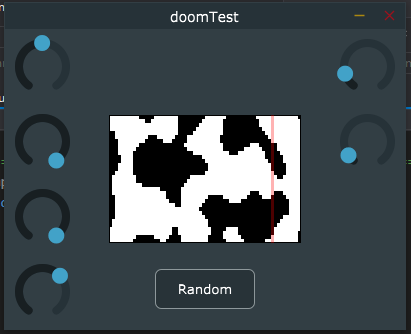
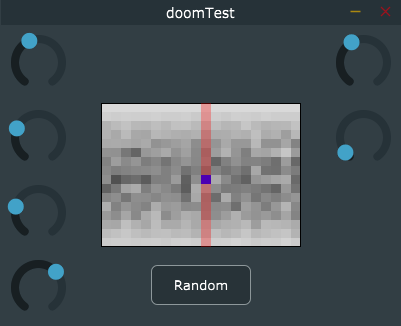
updated

diff --git a/Source/PluginProcessor.cpp b/Source/PluginProcessor.cpp
@@ -24,7 +24,7 @@ DoomTestAudioProcessor::DoomTestAudioProcessor()
                        )
 #endif
 {
-    pixels = new dsp::Matrix<bool>(16, 8);
+    pixels = new dsp::Matrix <float> (16, 8);
 
     perlinMatrix();
 
@@ -36,51 +36,21 @@ DoomTestAudioProcessor::~DoomTestAudioProcessor()
 
 }
 
-
-void DoomTestAudioProcessor::test_smallMatrix() {
-    (*pixels)(3, 3) = true;
-    (*pixels)(3, 4) = true;
-    (*pixels)(3, 5) = true;
-    (*pixels)(5, 3) = true;
-    (*pixels)(5, 4) = true;
-    (*pixels)(6, 4) = true;
-}
-
-void DoomTestAudioProcessor::test_stringMatrix() {
-    String s =
-        "00000000\n"
-        "000XX000\n"
-        "00000000\n"
-        "00XXXX00\n"
-        "00000000\n"
-        "0XXXXXX0\n"
-        "00000000\n"
-        "00XXXX00\n"
-        "00000000\n"
-        "000XX000\n"
-        "00000000";
-
-    StringArray tokens = StringArray::fromTokens(s, "\n");
-
-    int initRows = tokens.size();
-    int initCols = tokens[0].length();
-
-    for (int i = 0; i < initRows; i++)
-    {
-        for (int n = 0; n < initCols; n++) {
-            if (tokens[i][n] == 'X') (*pixels)(i, n) = true;
-            else (*pixels)(i, n) = false;
-        }
-    }
-}
+float DoomTestAudioProcessor::ramp(float x) {
+    int power = rampPower;
+    float exp = pow(2, -power * (x - 0.5));
+    return 1.0/(1.0+exp);
+};
 
 void DoomTestAudioProcessor::perlinMatrix() {
     int rows = pixels->getNumRows();
     int cols = pixels->getNumColumns();
     for (int row = 0; row < rows; row++) {
         for (int col = 0; col < cols; col++) {
-            float noise = (perlin.noise(row * 0.1, col * 0.1, time) + 1.0) / 2.0;
-            (*pixels)(row, col) = noise < spawnChance ? true : false;
+            float noise = (perlin.noise(row * noiseScale, col * noiseScale, sin(time)) + 1.0) / 2.0;
+            noise *= sin((float(row)/float(rows)) * juce::MathConstants<float>::pi);
+            noise = ramp(noise);
+            (*pixels)(row, col) = noise;
         }
     }
 }
@@ -188,6 +158,13 @@ float DoomTestAudioProcessor::limitSample(float sample) {
     return reverbGain * atan(sample * reverbGain) / MathConstants<float>::halfPi;
 }
 
+// utility comparator function to pass to the sort() module
+bool sortByVal(const std::pair<int, float>& a,
+    const std::pair<int, float>& b)
+{
+    return (a.second < b.second);
+}
+
 void DoomTestAudioProcessor::processBlock (AudioBuffer<float>& buffer, MidiBuffer& midiMessages)
 {
     ScopedNoDenormals noDenormals;
@@ -197,17 +174,33 @@ void DoomTestAudioProcessor::processBlock (AudioBuffer<float>& buffer, MidiBuffe
     int majSize = sizeof(major) / sizeof(int);
     int rows = pixels->getNumRows();
     if (generateNotes) {
-        std::set<int> lastOnNotes = onNotes;
-        onNotes.clear();
+        std::map<int, float> noteMap;
 
         for (int row = 0; row < rows; row++) {
             int col = scrubCol;
-            int offset = major[(row % majSize)] + (row / majSize);
+            int fixedRow = row - (rows / 2);
+            int offset = major[(fixedRow % majSize)] + (fixedRow / majSize);
             int note = baseNote + offset;
-            if ((*pixels)(row, col)) {
-                onNotes.insert(note);
-            }
+            noteMap[row] = (*pixels)(row,col);
         }
+
+        std::vector<std::pair<int, float>> sortVec;
+
+        std::map<int, float> ::iterator it2;
+        for (it2 = noteMap.begin(); it2 != noteMap.end(); it2++)
+        {
+            sortVec.push_back(std::make_pair(it2->first, it2->second));
+        }
+        std::sort(sortVec.begin(), sortVec.end(), sortByVal);
+
+        //float heighestVal = sortVec[sortVec.size() - 1].second;
+        strongestRow = sortVec[sortVec.size() - 1].first;
+
+        std::set<int> lastOnNotes = onNotes;
+        onNotes.clear();
+
+        int newNote = major[(strongestRow % majSize)] + (strongestRow / majSize) + baseNote;
+        onNotes.insert(newNote);
 
         for (int note : lastOnNotes) {
             //if note was being played before and is no longer being played, kill it
@@ -216,38 +209,9 @@ void DoomTestAudioProcessor::processBlock (AudioBuffer<float>& buffer, MidiBuffe
             }
         }
 
-        std::set<int> lastChosenNotes = chosenNotes;
-        chosenNotes.clear();
-        DBG(onNotes.size() << " | " << lastChosenNotes.size() << " | " << chosenNotes.size());
-        String test = "";
         for (int note : onNotes) {
-            test.append(std::to_string(note), 3);
-            test += " ";
-        }
-        DBG(test);
-        
-
-        if (onNotes.size() > 0) {
-            for (int i = 0; i < numNotes; i++) {
-                int idx = rand() % onNotes.size();
-                //int idx = (onNotes.size()-i) % onNotes.size();
-                if (idx > onNotes.size()) continue;
-                std::set<int>::iterator it = onNotes.begin();
-                std::advance(it, idx);
-                int note = *it;
-                chosenNotes.insert(note);
-            }
-        }
-
-        for (int note : lastChosenNotes) {
-            //if note was being played before and is no longer being played, kill it
-            if (chosenNotes.find(note) == chosenNotes.end()) {
-                setNoteNumber(note, false, midiMessages);
-            }   
-        }
-        for (int note : chosenNotes) {
             //if note was not being played before but is now, turn it on
-            if (lastChosenNotes.find(note) == lastChosenNotes.end()) {
+            if (lastOnNotes.find(note) == lastOnNotes.end()) {
                 setNoteNumber(note, true, midiMessages);
             }
         }
@@ -302,6 +266,10 @@ void DoomTestAudioProcessor::setStateInformation (const void* data, int sizeInBy
     // whose contents will have been created by the getStateInformation() call.
 }
 
+bool DoomTestAudioProcessor::isPixelOn(int row, int col) {
+    return (*pixels)(row, col) < spawnChance ? true : false;
+}
+
 
 int DoomTestAudioProcessor::countOnNearby(int targetRow, int targetCol) {
     int rows = pixels->getNumRows();
@@ -314,41 +282,20 @@ int DoomTestAudioProcessor::countOnNearby(int targetRow, int targetCol) {
             if (row == 0 && col == 0) continue;
             if (currRow > rows || currCol > cols) continue;
             if (currRow < 0 || currCol < 0) continue;
-            if ((*pixels)(currRow, currCol)) onCount++;
+            if (isPixelOn(currRow, currCol)) onCount++;
         }
     }
     return onCount;
 }
 
-void DoomTestAudioProcessor::step()
-{
-    int rows = pixels->getNumRows();
-    int cols = pixels->getNumColumns();
-    dsp::Matrix<bool> newPixels(rows, cols);
-    for (int row = 0; row < rows-1; row++) {
-        for (int col = 0; col < cols-1; col++) {
-            int nearby = countOnNearby(row, col);
-            if ((*pixels)(row, col)) {
-                if (nearby <= 1 || nearby >= 4) newPixels(row, col) = false;
-                else newPixels(row, col) = true;
-            }
-            else {
-                if (nearby == 3) newPixels(row, col) = true;
-            }
-        }
-    }
-    (*pixels) = newPixels;
-}
-
 void DoomTestAudioProcessor::update() {
     scrubCol++;
     generateNotes = true;
-    //step();
     if (scrubCol >= pixels->getNumColumns()) {
-        //step();
         scrubCol = 0;
-        time += timeSpeed;
+        //time += timeSpeed;
     }
+    time += timeSpeed;
     perlinMatrix();
     callAfterDelay(BPM_TO_MS(BPM), [&] {update(); });
 }
@@ -358,26 +305,6 @@ void DoomTestAudioProcessor::timerCallback()
     update();
 }
 
-void DoomTestAudioProcessor::randomNew()
-{
-    int rows = pixels->getNumRows();
-    int cols = pixels->getNumColumns();
-
-    for (int row = 0; row < rows - 1; row++) {
-        for (int col = 0; col < cols - 1; col++) {
-            (*pixels)(row, col) = !((random.nextInt() % 3) - 1);
-            /*
-            (*pixels)(3, 3 + testIdx) = true;
-            (*pixels)(3, 4 + testIdx) = true;
-            (*pixels)(3, 5 + testIdx) = true;
-            (*pixels)(5, 3 + testIdx) = true;
-            (*pixels)(5, 4 + testIdx) = true;
-            (*pixels)(6, 4 + testIdx) = true;
-            */
-        }
-    }
-}
-
 void DoomTestAudioProcessor::doResize(int newRows, int newCols) {
     int rows = pixels->getNumRows();
     int cols = pixels->getNumColumns();
@@ -385,7 +312,7 @@ void DoomTestAudioProcessor::doResize(int newRows, int newCols) {
     int xoffset = (newCols - cols) / 2;
     int yoffset = (newRows - rows) / 2;
 
-    dsp::Matrix<bool> *newPixels = new dsp::Matrix<bool>(newRows, newCols);
+    dsp::Matrix<float> *newPixels = new dsp::Matrix<float>(newRows, newCols);
     for (int row = 0; row < rows - 1; row++) {
         for (int col = 0; col < cols - 1; col++) {
             int currCol = col + xoffset;

diff --git a/Source/PluginEditor.cpp b/Source/PluginEditor.cpp
@@ -29,12 +29,12 @@ DoomTestAudioProcessorEditor::DoomTestAudioProcessorEditor (DoomTestAudioProcess
     addAndMakeVisible(&baseNoteSlider);
 
     numNotesSlider.setSliderStyle(juce::Slider::Slider::RotaryVerticalDrag);
-    numNotesSlider.setRange(0.0, 16.0, 1.0);
+    numNotesSlider.setRange(0.0, 100.0, 1.0);
     numNotesSlider.setTextBoxStyle(juce::Slider::NoTextBox, false, 90, 0);
     numNotesSlider.setPopupDisplayEnabled(true, false, this);
     numNotesSlider.setTextValueSuffix(" Notes");
-    numNotesSlider.setValue(processor.numNotes);
-    numNotesSlider.onValueChange = [this] { processor.numNotes = numNotesSlider.getValue(); };
+    numNotesSlider.setValue(processor.rampPower);
+    numNotesSlider.onValueChange = [this] { processor.rampPower = numNotesSlider.getValue(); };
     addAndMakeVisible(&numNotesSlider);
 
     tempoSlider.setSliderStyle(juce::Slider::Slider::RotaryVerticalDrag);
@@ -47,11 +47,11 @@ DoomTestAudioProcessorEditor::DoomTestAudioProcessorEditor (DoomTestAudioProcess
     addAndMakeVisible(&tempoSlider);
 
     zSlider.setSliderStyle(juce::Slider::Slider::RotaryVerticalDrag);
-    zSlider.setRange(0.3, 0.6, 0.05);
+    zSlider.setRange(0.1, 1.0, 0.1);
     zSlider.setTextBoxStyle(juce::Slider::NoTextBox, false, 90, 0);
     zSlider.setPopupDisplayEnabled(true, false, this);
     zSlider.setValue(processor.spawnChance);
-    zSlider.onValueChange = [this] { processor.spawnChance = zSlider.getValue(); };
+    zSlider.onValueChange = [this] { processor.noiseScale = zSlider.getValue(); };
     addAndMakeVisible(&zSlider);
 
     widthSlider.setSliderStyle(juce::Slider::Rotary);
@@ -67,7 +67,7 @@ DoomTestAudioProcessorEditor::DoomTestAudioProcessorEditor (DoomTestAudioProcess
     addAndMakeVisible(&widthSlider);
 
     heightSlider.setSliderStyle(juce::Slider::Rotary);
-    heightSlider.setRange(8.0, 32.0, 1.0);
+    heightSlider.setRange(1.0, 64.0, 1.0);
     heightSlider.setTextBoxStyle(juce::Slider::NoTextBox, false, 90, 0);
     heightSlider.setPopupDisplayEnabled(true, false, this);
     heightSlider.setTextValueSuffix(" Range");
@@ -80,7 +80,7 @@ DoomTestAudioProcessorEditor::DoomTestAudioProcessorEditor (DoomTestAudioProcess
 
     addAndMakeVisible(randomConfig);
     randomConfig.setButtonText("Random");
-    randomConfig.onClick = [this] { processor.randomNew(); };
+    //randomConfig.onClick = [this] { processor.randomNew(); };
 
     //24 FPS
     startTimerHz(24);
@@ -107,20 +107,20 @@ void DoomTestAudioProcessorEditor::paint (Graphics& g)
 
     for (int row = 0; row < rows; row++) {
         for (int col = 0; col < cols; col++) {
-            int idx = (row % rows) + col*rows;
-            if ((*processor.pixels)(row,col)) {
-                g.fillRect((col * xscale) + xoffset, (row * yscale) + yoffset, xscale, yscale);
-            }
+            g.setColour(Colours::black);
+            g.setOpacity((*processor.pixels)(row, col));
+            g.fillRect((col * xscale) + xoffset, (row * yscale) + yoffset, xscale, yscale);
         }
     }
+
+    g.setColour(Colours::blue);
+    g.fillRect((processor.scrubCol * xscale) + xoffset, (processor.strongestRow * yscale) + yoffset, xscale, yscale);
 
     g.setColour(Colours::red);
     g.setOpacity(0.3);
     g.fillRect(xoffset + (xscale * processor.scrubCol), yoffset, xscale, rows * yscale);
 
     g.setColour (Colours::white);
-    //g.setFont (15.0f);
-    //g.drawFittedText ("Hello World!!!", getLocalBounds(), Justification::centred, 1);
 }
 
 void DoomTestAudioProcessorEditor::resized()

diff --git a/Source/PluginProcessor.h b/Source/PluginProcessor.h
@@ -30,9 +30,9 @@ public:
     void prepareToPlay (double sampleRate, int samplesPerBlock) override;
     void releaseResources() override;
 
-    dsp::Matrix<bool> *pixels;
+    dsp::Matrix<float> *pixels;
 
-    int major[8] = { 0,4,7,9,11 };
+    int major[8] = { 0,2,4,5,7,8 };
 
     Perlin perlin;
     float BPM = 60;
@@ -49,9 +49,14 @@ public:
     std::set<int> chosenNotes;
     int baseNote = 50;
     int numNotes = 1;
+    int strongestRow = 0;
+    float noiseScale = 0.1;
+    float ramp(float x);
+    int rampPower = 10;
 
     int scrubCol = 0;
     bool generateNotes = 0;
+    bool isPixelOn(int row, int col);
     int countOnNearby(int targetRow, int targetCol);
     void step();
     void update();
